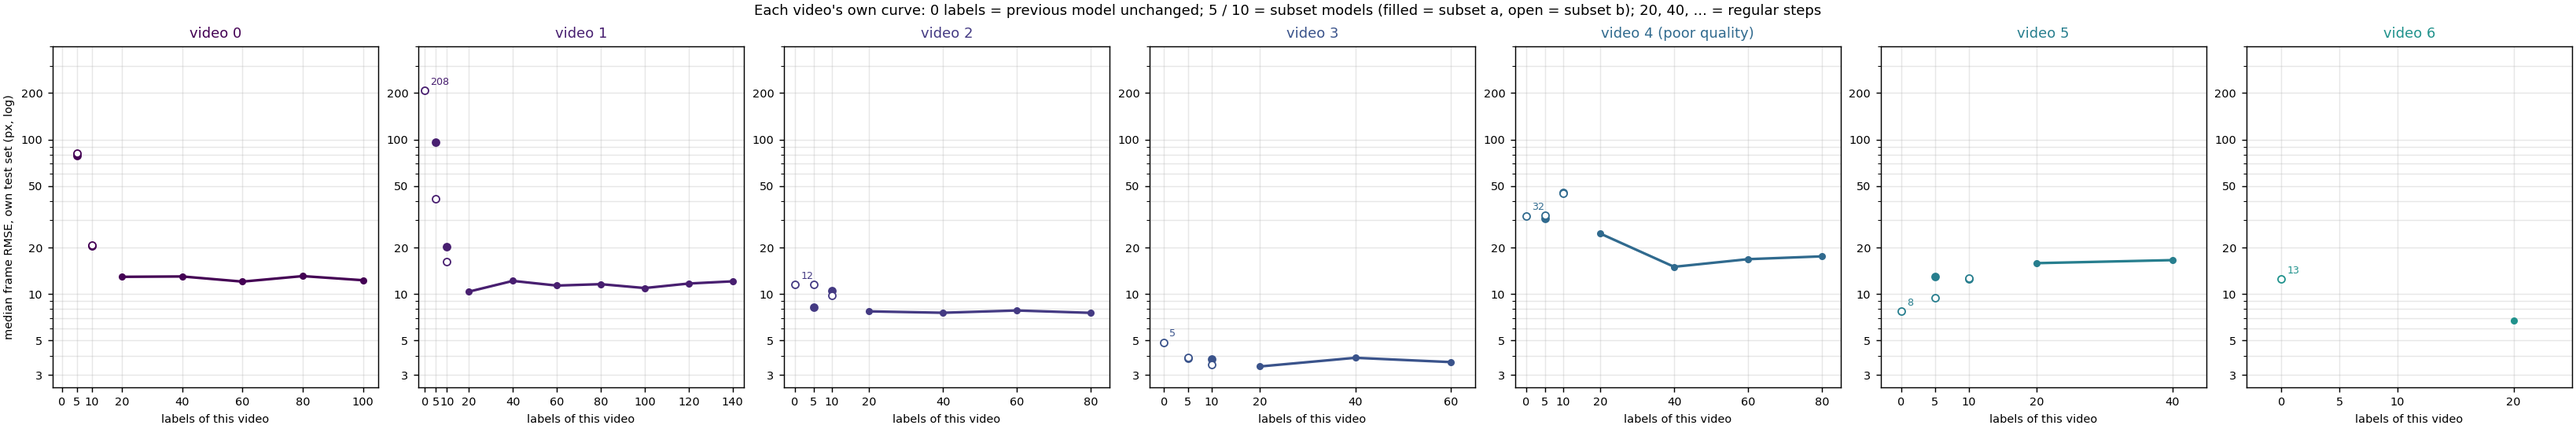
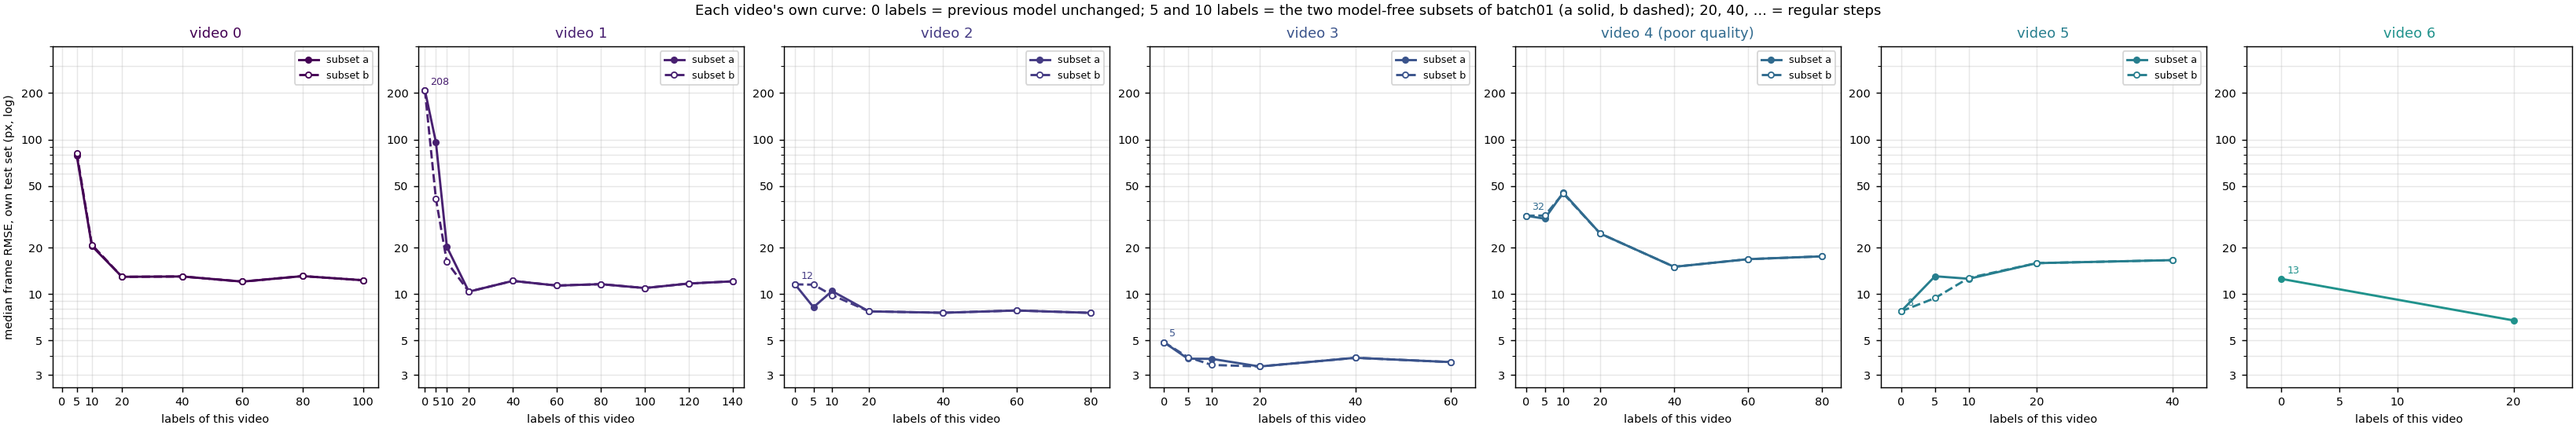
Per-video panels: connected lines 0 -> 5 -> 10 -> 20 -> ... (subset a solid, b dashed)

diff --git a/v2_new_pupil_top_video_scaling/scripts/cross_video_eval.py b/v2_new_pupil_top_video_scaling/scripts/cross_video_eval.py
@@ -176,12 +176,18 @@ def plot(m):
         # the 0-label point = the last model trained before this video's own labels (if scored on this test set)
         prev = m[(m.test_unit == u) & (mods.set_index("shuffle").loc[m.shuffle, "model_idx"].values < mods[mods.model_unit == u].model_idx.min())]
         if len(prev):
-            z = prev.sort_values("model_idx").iloc[-1]; ax2.plot([0], [z.median_frame_rmse_px], "o", color=colors[u], ms=5, mfc="white")
+            z = prev.sort_values("model_idx").iloc[-1]
             ax2.annotate(f"{z.median_frame_rmse_px:.0f}", (0, z.median_frame_rmse_px), textcoords="offset points", xytext=(4, 4), fontsize=7, color=colors[u])
-        ax2.plot(reg.labels_this_video, reg.median_frame_rmse_px, "o-", color=colors[u], ms=4, lw=1.8)
-        for tag, fc in (("a", colors[u]), ("b", "white")):
-            ss = sub[sub.subset.str.endswith(tag)]
-            ax2.plot(ss.labels_this_video, ss.median_frame_rmse_px, "o", color=colors[u], ms=5, mfc=fc, ls="none")
+        # one connected line per subset series: 0 -> 5x -> 10x -> 20 -> 40 ... (a solid, b dashed); without subsets, 0 -> 20 -> 40 ...
+        z0 = ([0], [z.median_frame_rmse_px]) if len(prev) else ([], [])
+        series = [("a", "-"), ("b", "--")] if len(sub) else [("", "-")]
+        for tag, ls in series:
+            ss = sub[sub.subset.str.endswith(tag)].sort_values("labels_this_video") if tag else sub.iloc[0:0]
+            xs = list(z0[0]) + list(ss.labels_this_video) + list(reg.labels_this_video)
+            ys = list(z0[1]) + list(ss.median_frame_rmse_px) + list(reg.median_frame_rmse_px)
+            ax2.plot(xs, ys, marker="o", ls=ls, color=colors[u], ms=4, lw=1.6, mfc=("white" if tag == "b" else colors[u]), label=(f"subset {tag}" if tag else None))
+        if len(sub):
+            ax2.legend(fontsize=7, loc="upper right")
         import matplotlib.ticker as mt
         ax2.set_yscale("log"); ax2.set_yticks([3, 5, 10, 20, 50, 100, 200]); ax2.yaxis.set_major_formatter(mt.ScalarFormatter()); ax2.yaxis.set_minor_formatter(mt.NullFormatter())
         xmax = max(20, int(reg.labels_this_video.max()) if len(reg) else 20); ax2.set_xlim(-3, xmax + 5)
@@ -190,7 +196,7 @@ def plot(m):
         ax2.set_title(f"video {u.split('_')[0]}" + (" (poor quality)" if u in POOR_QUALITY else ""), fontsize=10, color=colors[u]); ax2.grid(alpha=0.3, which="both")
         ax2.set_xlabel("labels of this video", fontsize=8)
     np.atleast_1d(axs)[0].set_ylabel("median frame RMSE, own test set (px, log)", fontsize=8)
-    fig2.suptitle("Each video's own curve: 0 labels = previous model unchanged; 5 / 10 = subset models (filled = subset a, open = subset b); 20, 40, ... = regular steps", fontsize=10)
+    fig2.suptitle("Each video's own curve: 0 labels = previous model unchanged; 5 and 10 labels = the two model-free subsets of batch01 (a solid, b dashed); 20, 40, ... = regular steps", fontsize=10)
     fig2.savefig(R / "scale_curves_all_videos.png", dpi=130); plt.close(fig2)
     ax.set_title("Every model of the sequence, scored on every video's frozen test set (final snapshot, epoch 120)\n"
                  "left of a dotted line = that video not yet in the training set (its 0-label regime); labels are 20 per step; open markers = 5 / 10-label subset models", fontsize=11, pad=34)
